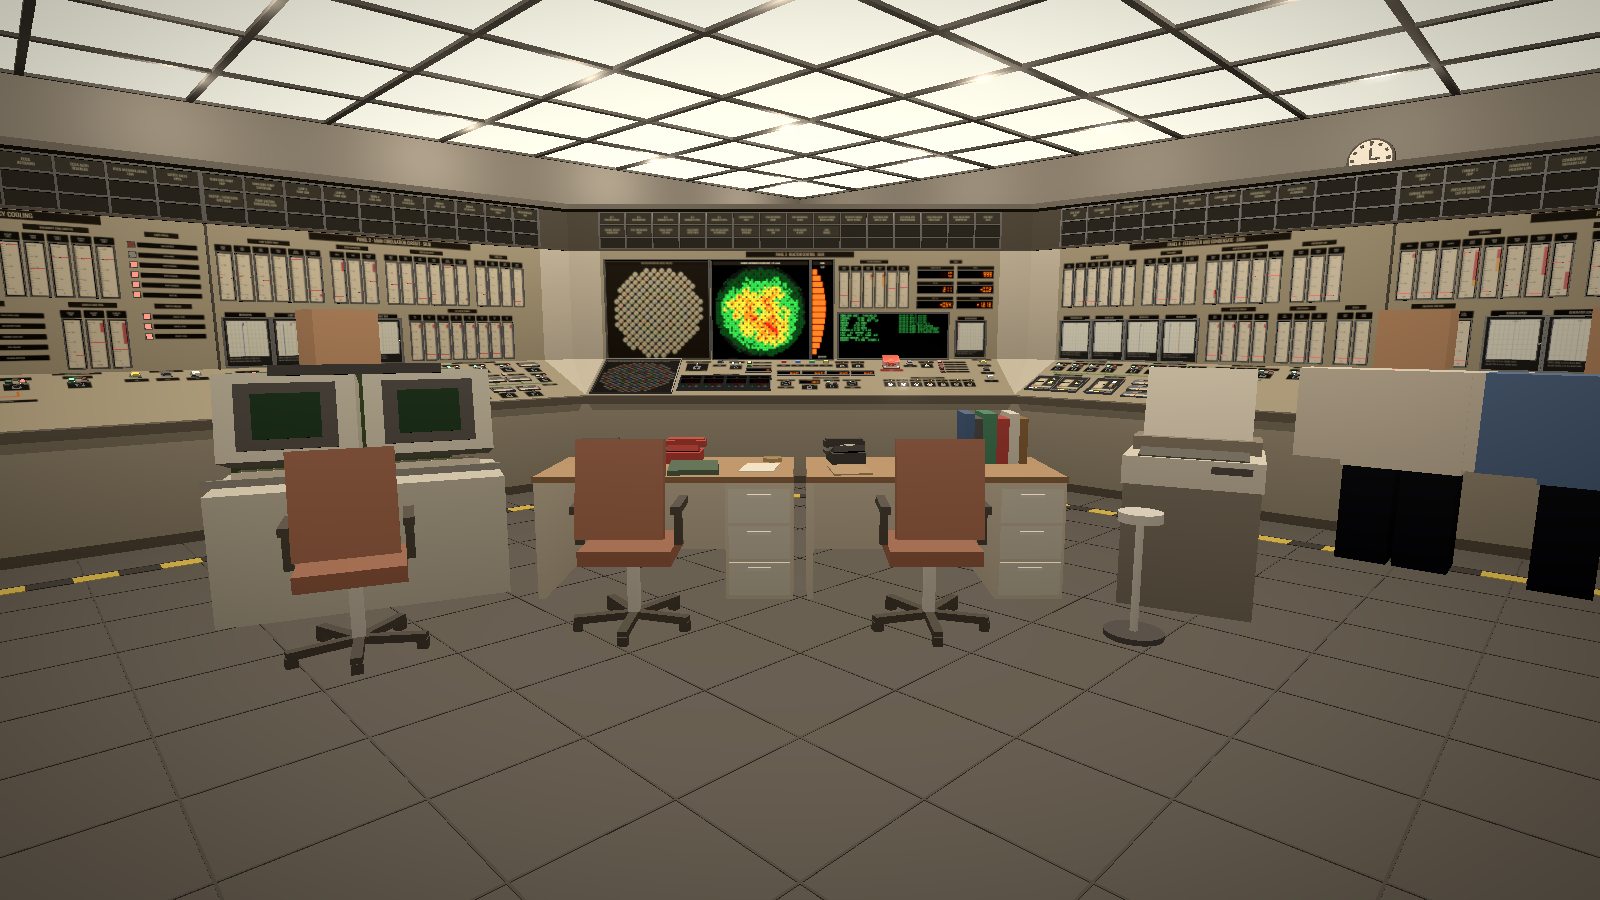
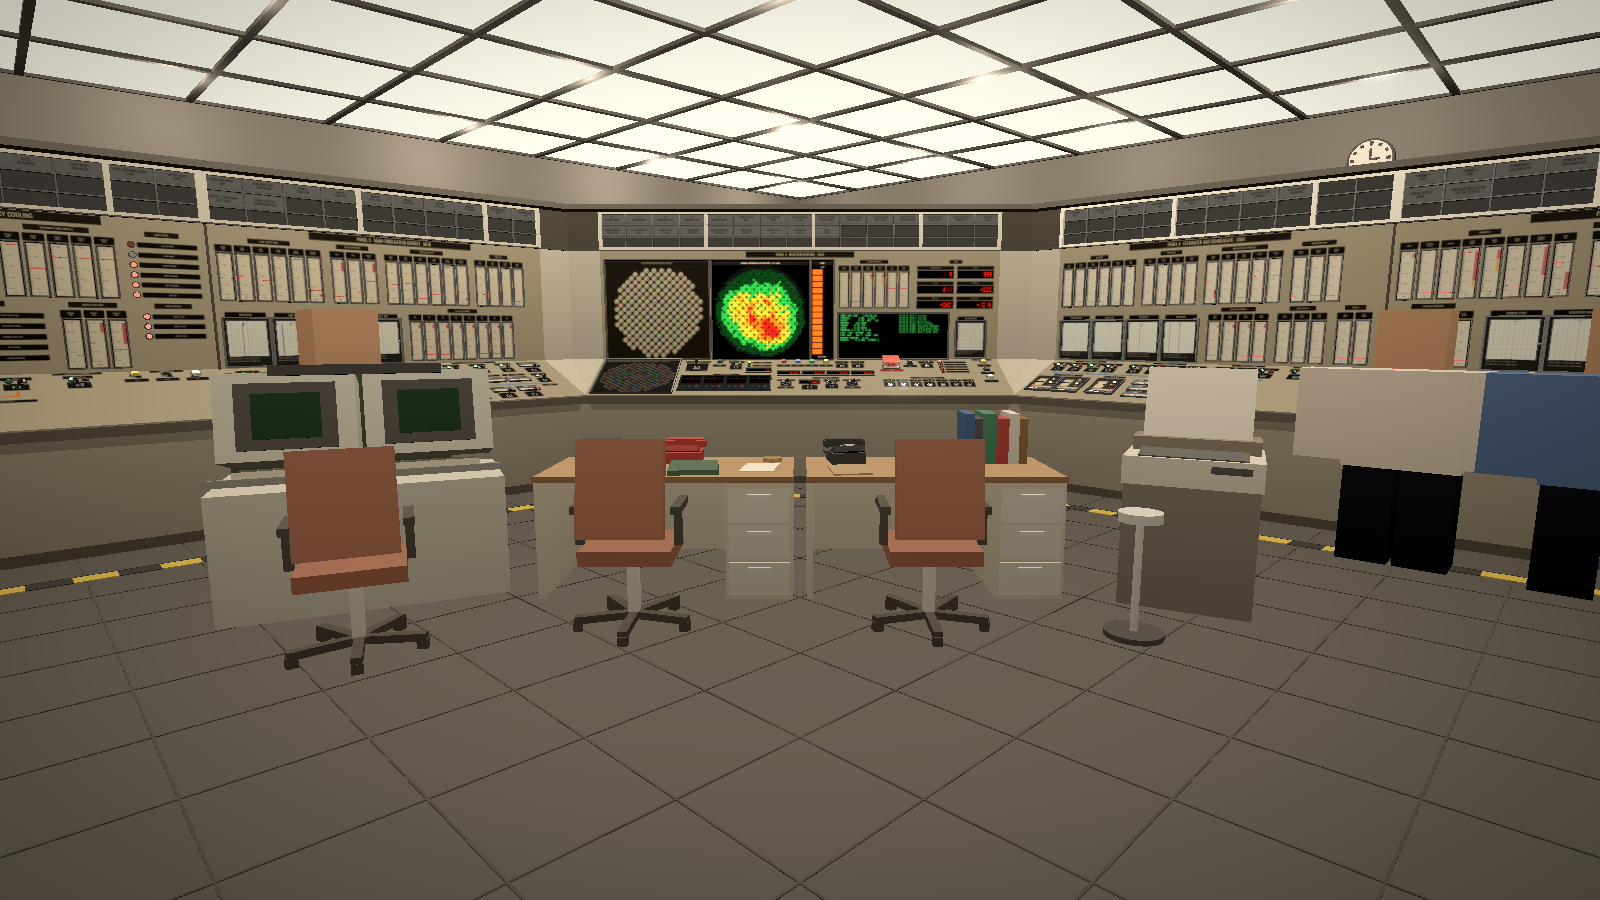
Make the panel hardware chunky and glowing, after the ONPS reference
The switches and buttons now read from across the room, the way the
user's reference does it:

- control keys are black levers that stand up off the console (a stalk
  and a tall paddle grip on a hub and square base) and tip left or right
  towards their position; raise/lower and the rod movement switch use
  the same lever, springing back upright
- lamps are round (cylinders) in black rings and glow when lit
- pushbuttons have tall square caps; selector knobs carry a tall fin
  with a white tip
- light boxes are grouped four columns wide in beige frames, gray when
  unlit and white or red when lit
- mimic lines are thicker, water in light blue; digital readouts red;
  round lamps on the rod position board and four-rod display

Version 2026-11-20b.

Claude-Session: https://claude.ai/code/session_01VSDuaMdJJtcpWxuAbMdZ91

diff --git a/README.md b/README.md
@@ -84,13 +84,14 @@ ceiling is 3.8 m up.
 - **Boards**: on each vertical board, rows of narrow black-cased profile meters (white
   scale, red pointer, coloured limit bands) under black engraved nameplates in white condensed
   capitals, a dark title plate over each system, and a row of strip-chart recorders. On
-  each console, control keys: a black bar handle with a white index line on a square
-  mounting plate, under a pair of square signal lamps (green off, red on) and an engraved
-  plate with its two positions; key switches with brass keys; square pushbuttons in black
-  housings. Valves and setpoints are moved with spring-return keys marked LESS / MORE.
-  Mimic lines trace the flow paths in the Soviet pipeline colours (water green, steam red;
-  emergency cooling orange, power black). Every large pump has a motor ammeter. Digital
-  readouts are orange gas-discharge indicators, and mechanical counters count ruptured,
+  each console, chunky hardware that reads from across the room: black levers that stand
+  up off the console and tip towards their position, under a pair of round lamps that
+  glow (green off, red on) and an engraved plate with its two positions; key switches
+  with brass keys; square pushbuttons with tall caps; black knobs with a tall fin.
+  Valves and setpoints are moved with spring-return levers marked LESS / MORE. Thick
+  mimic lines trace the flow paths (water light blue, steam red, emergency cooling
+  orange, power black). Every large pump has a motor ammeter. Digital readouts are red,
+  and mechanical counters count ruptured,
   damaged and flow-blocked channels. Boards and consoles are putty beige with dark
   trim. Hover over any instrument for its exact reading.
 - **Reactor board (Panel 3)**, the widest section: on the vertical board, the rod position
@@ -113,11 +114,12 @@ ceiling is 3.8 m up.
   meters for each main circulation and feed pump.
 - **Light boxes** run along the top of every panel and follow a ringback sequence: a new
   alarm flashes fast with the horn until ACKNOWLEDGE, then stays steady; when it clears it
-  flashes slowly until RESET; TEST lights every window on the panel while held. Unlit
-  windows are dark, with the legend faintly visible; emergency windows light red, the
-  rest yellow. The pushbuttons are on Panels 1, 3 and 4. In Roblox
-  the board artwork takes the room's lighting, while the self-lit displays (light boxes,
-  digits, the cartogram, the SKALA tube) glow on their own.
+  flashes slowly until RESET; TEST lights every window on the panel while held. The
+  windows are grouped in boxes of four columns in beige frames: gray with a dark legend
+  when unlit, white when lit, red for the emergency ones. The pushbuttons are on
+  Panels 1, 3 and 4. In Roblox the board artwork takes the room's lighting, while the
+  self-lit displays (light boxes, digits, the cartogram, the SKALA tube) glow on their
+  own.
 - **Room**: a dark tiled floor with yellow and black hazard stripes along the boards, dark
   gray walls, a ceiling of square luminous panels, an electric wall clock and a green exit
   sign.
@@ -174,7 +176,7 @@ If the reactor is destroyed, a new unit is commissioned after about a minute.
   three-element level control, safety valves.
 - **Electrical**: generator excitation and synchronising, auxiliary buses with reserve
   transfer, emergency buses and diesels, islanded "rundown" operation.
-- **Control room**: a walkable 3D room. Buttons and their covers, control keys, key
+- **Control room**: a walkable 3D room. Buttons and their covers, levers, key
   switches, knobs, lamp lenses, meter needles and the bezels around every instrument are
   physical parts; scales, legends and screens are drawn on the panel faces.
 - **Protection**: AZ-1 to AZ-5 with first-out logging and key-switch bypasses, ECCS,
